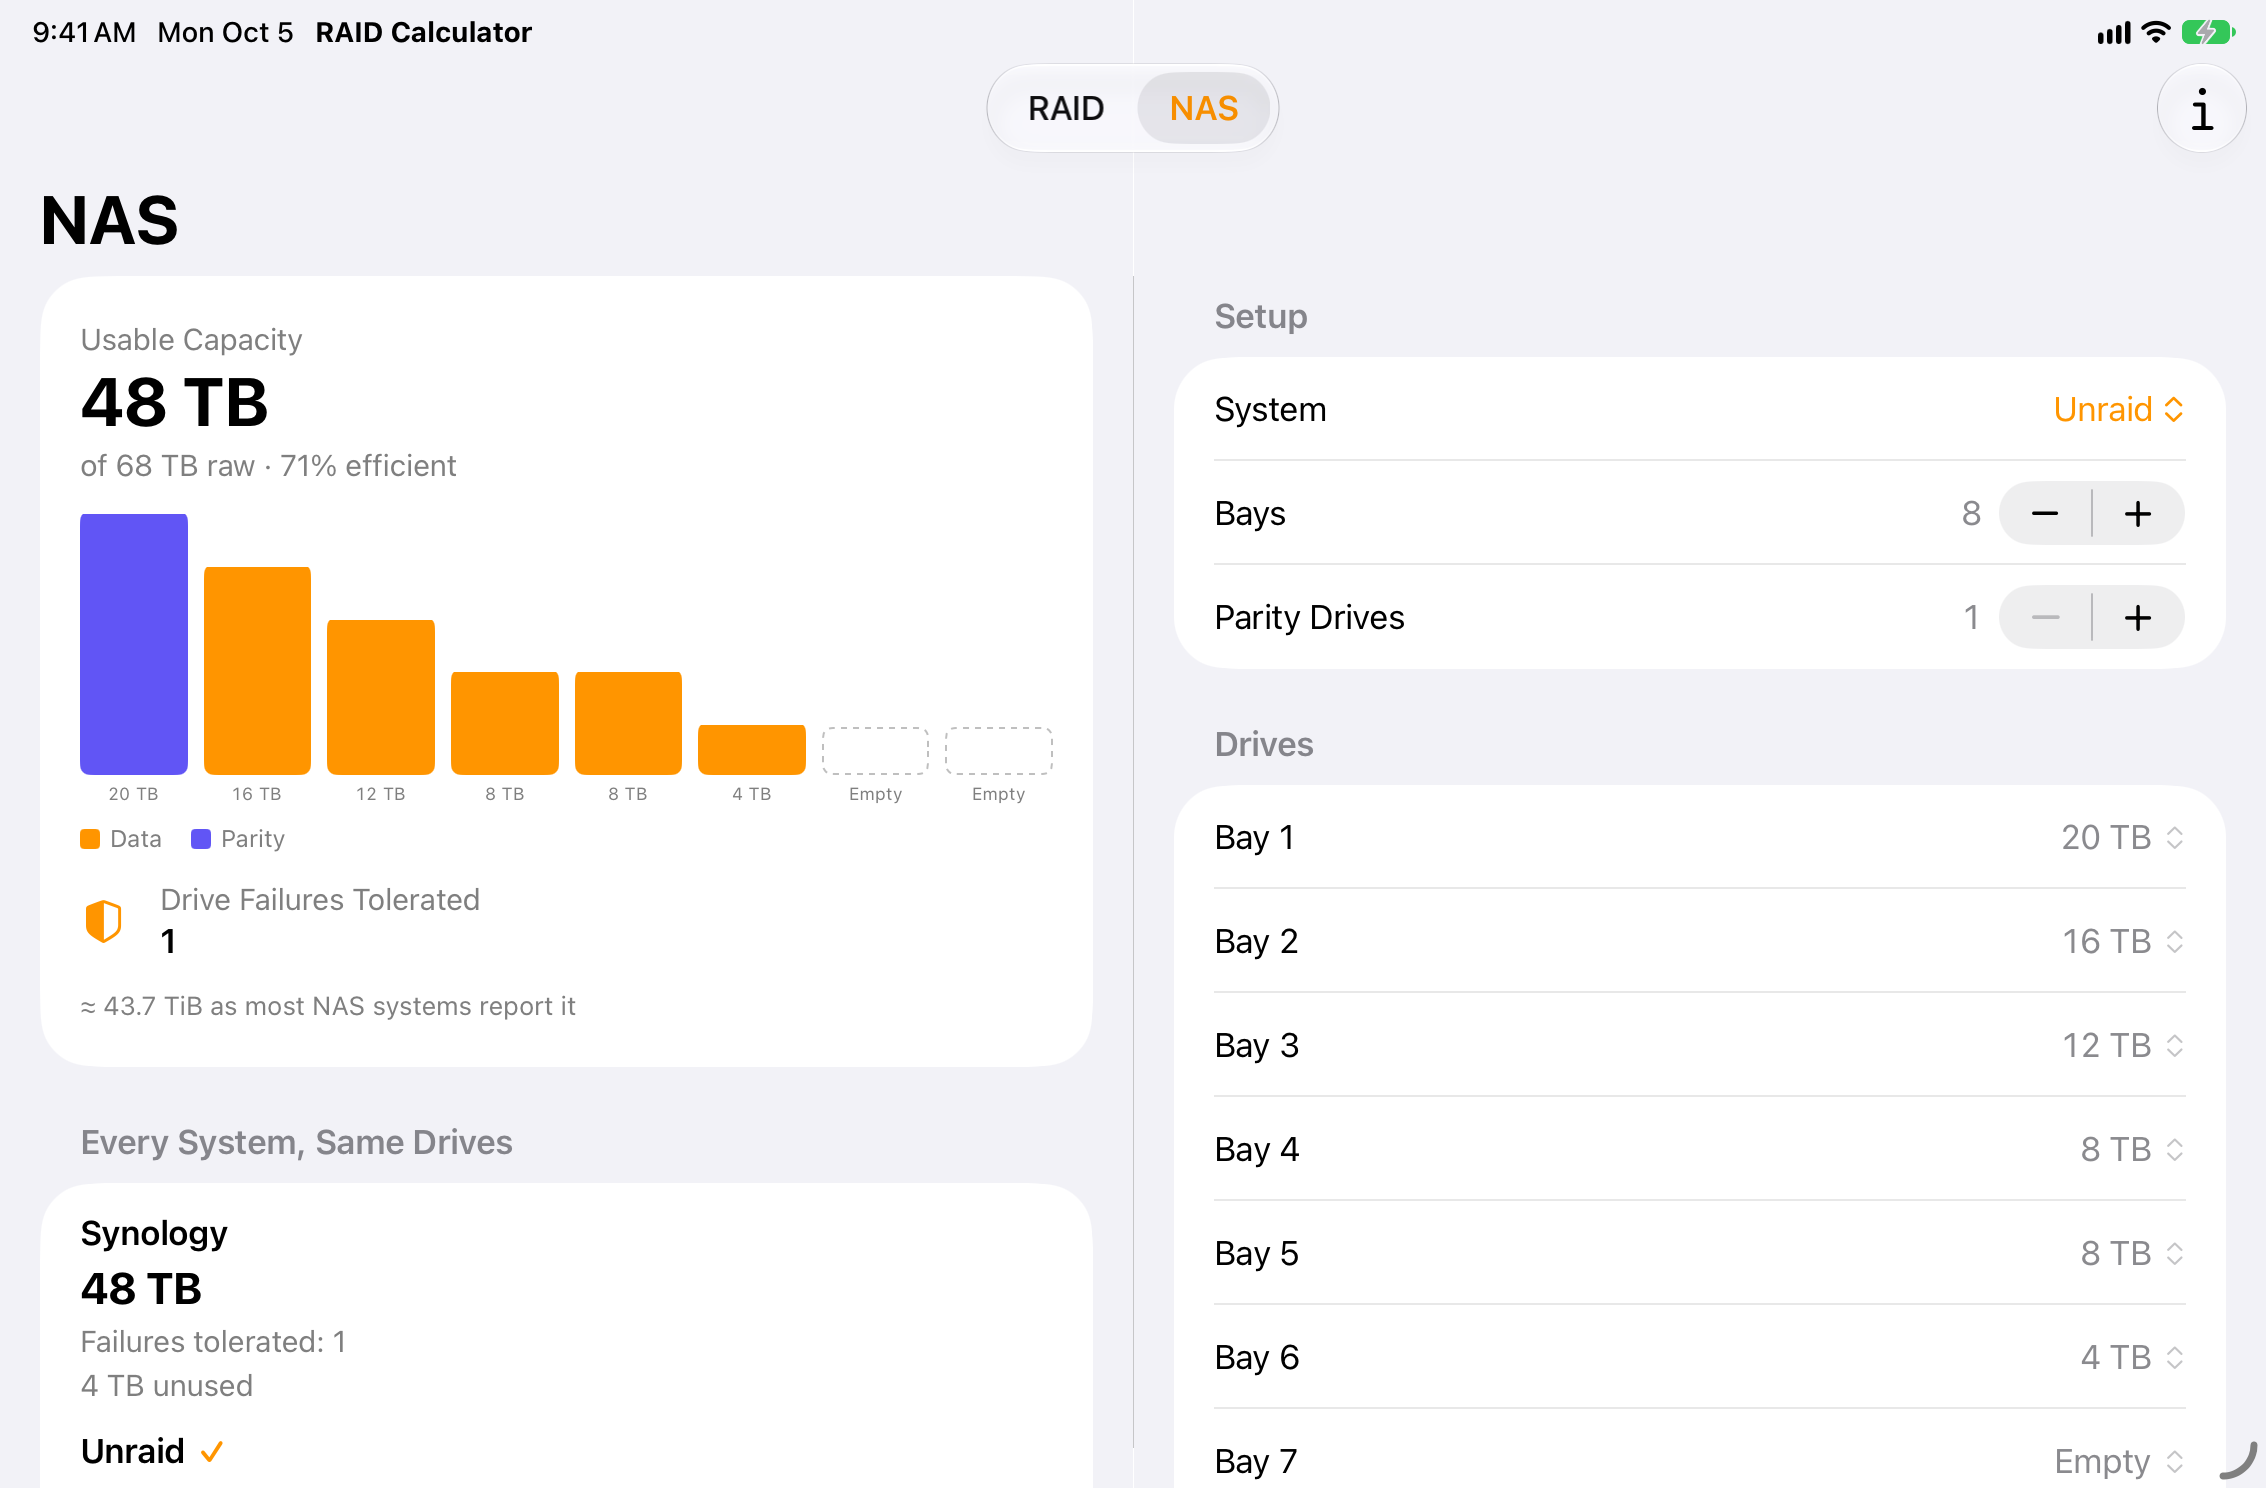
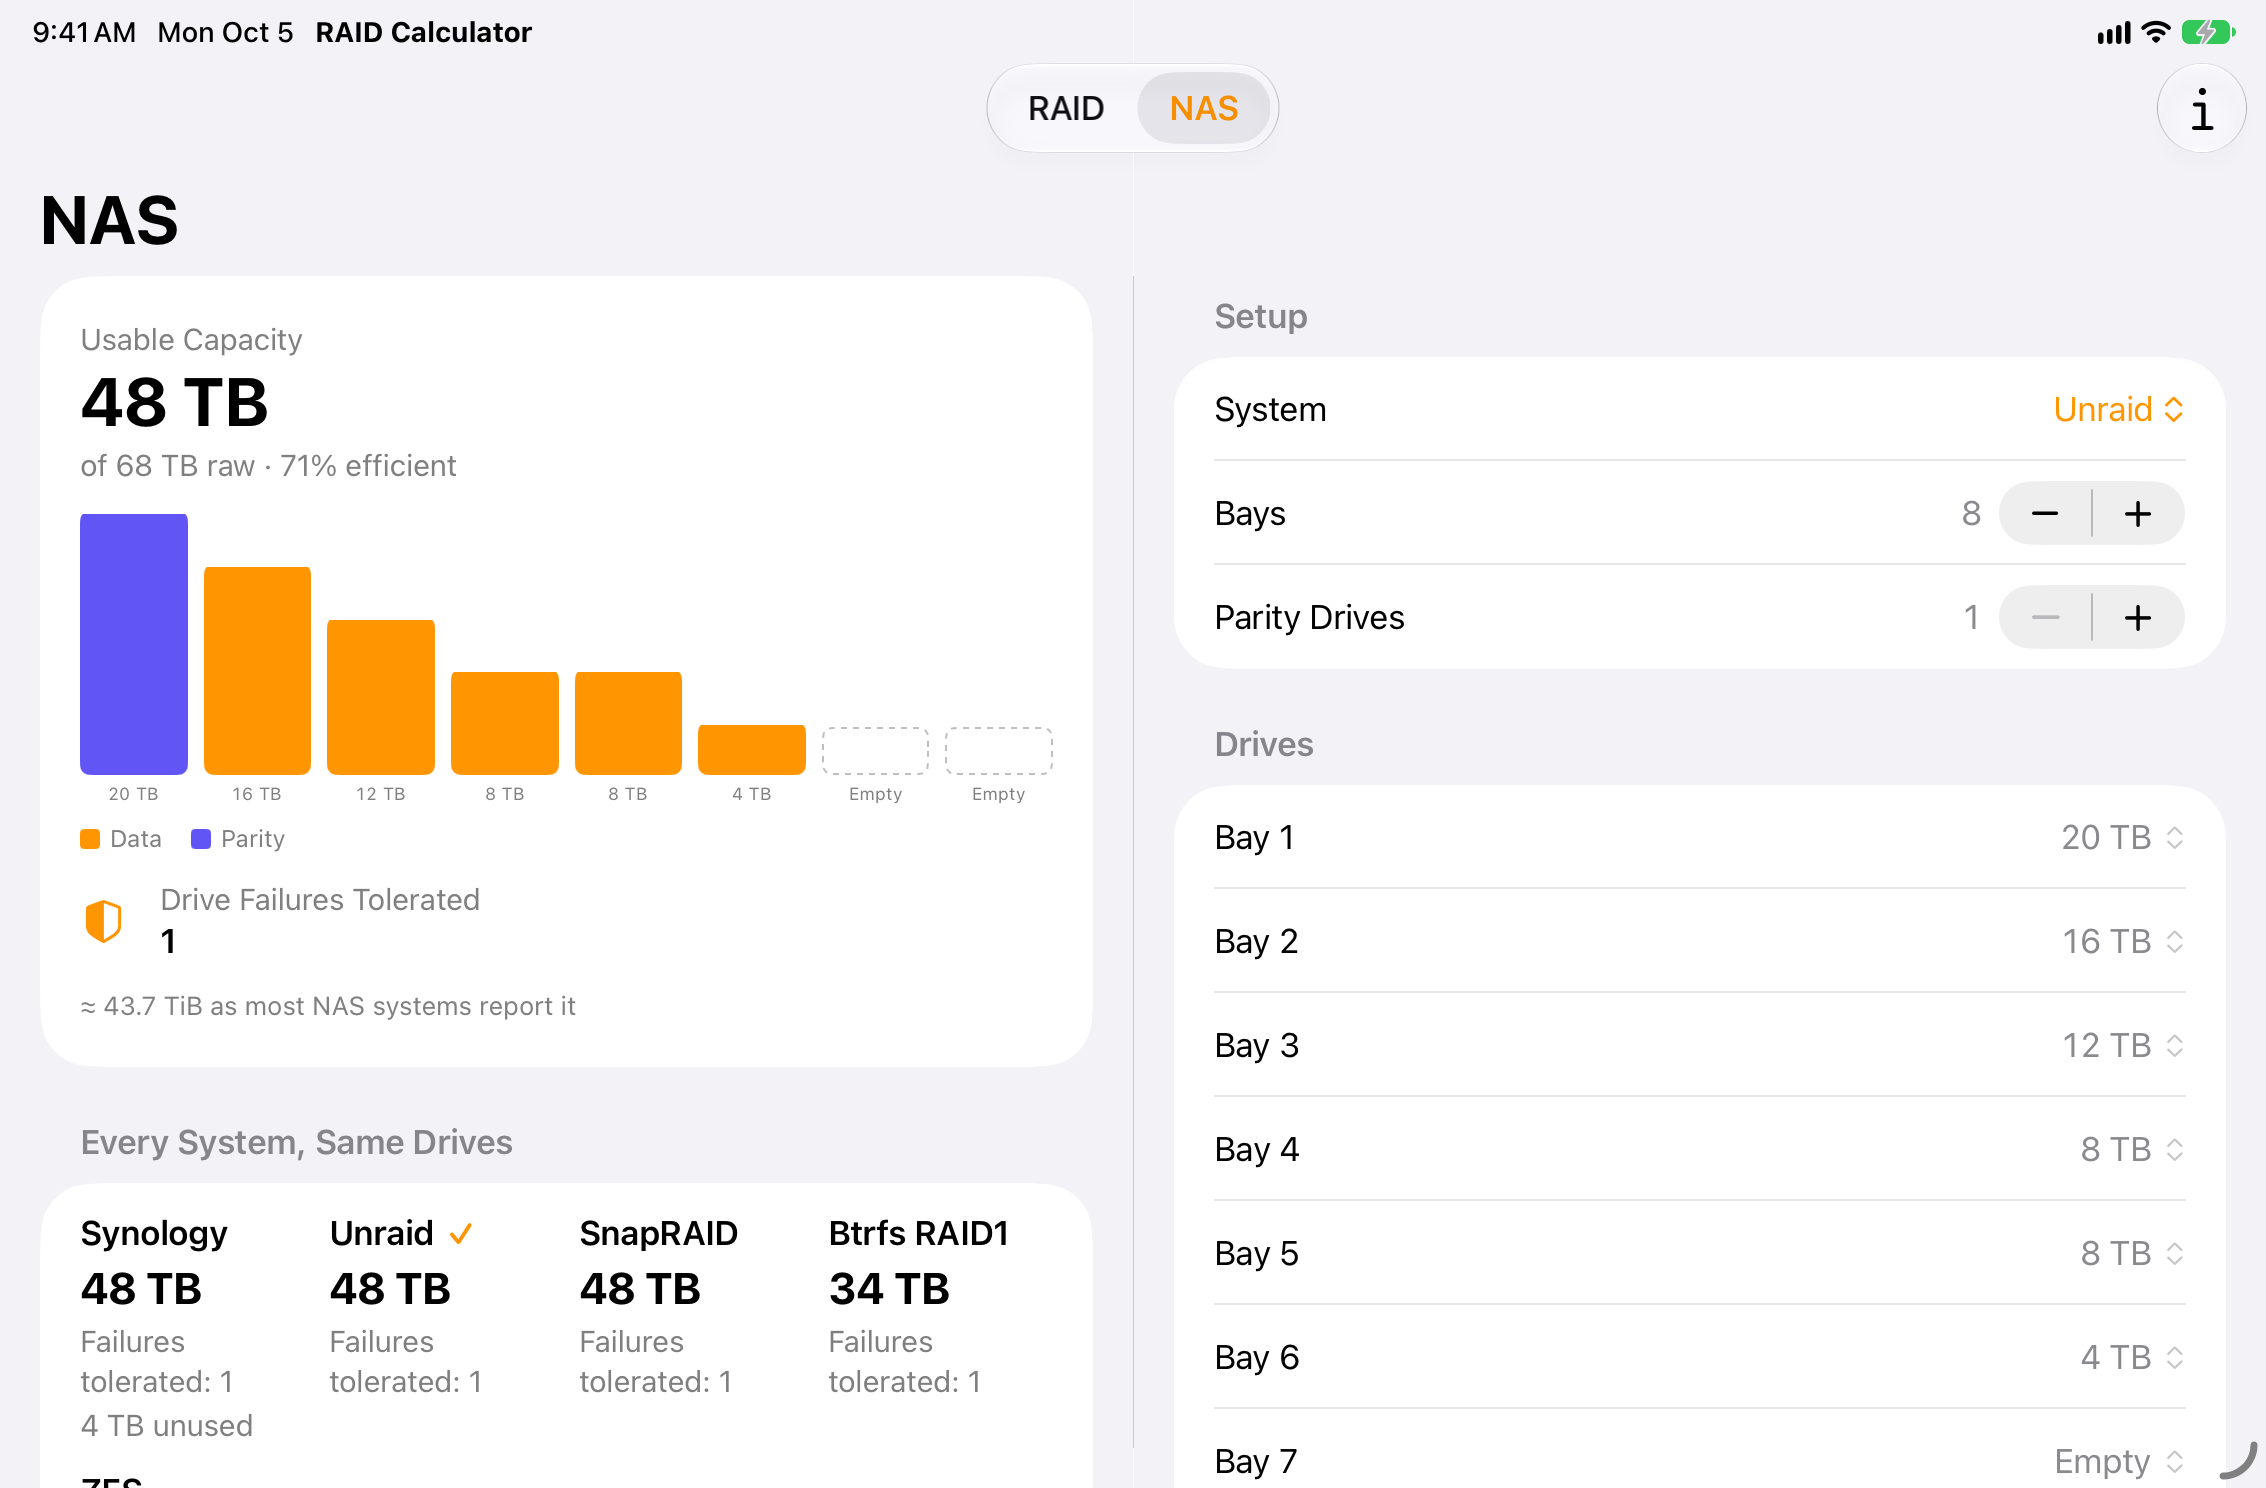
Test the comparison grid and bay frames, refresh the iPad sweep
- testIPadComparesSystemsInColumns now asserts Unraid sits beside
  Synology, and a portrait variant covers the 13-inch iPad's narrower
  results column (skips where portrait is one column).
- testBayDiagramColumnsKeepTheirOwnFrames guards each bay's VoiceOver
  frame against overlapping the next.
- testIPadSwitchToSynologyFromThirtyBays scrolls the lazy drive list,
  so it also passes on the iPad mini, where bay 12 is below the fold.
- The UI tests restore portrait in tearDown.
- Unit tests: non-finite widths, the drive-strip row rule, and a
  non-vacuous invalid-sort check.
- Re-captured the iPad two-column NAS shots, light and dark.

Changed region(s): [[0.0309, 0.8038, 0.1853, 1.0], [0.2471, 0.8038, 0.3398, 0.9583], [0.3707, 0.8038, 0.4325, 0.9583]]

diff --git a/RaidCalculator2UITests/RaidCalculator2UITests.swift b/RaidCalculator2UITests/RaidCalculator2UITests.swift
@@ -13,6 +13,11 @@ final class RaidCalculator2UITests: XCTestCase {
         continueAfterFailure = false
     }
 
+    /// The iPad tests turn the device; put it back so the next test starts upright.
+    override func tearDownWithError() throws {
+        MainActor.assumeIsolated { XCUIDevice.shared.orientation = .portrait }
+    }
+
     /// Launches with a known configuration. Launch arguments override the
     /// persisted UserDefaults, so each test starts from RAID 5, 4 × 4 TB.
     @MainActor
@@ -386,6 +391,24 @@ final class RaidCalculator2UITests: XCTestCase {
         return summary.label.components(separatedBy: ", ").dropFirst().first ?? summary.label
     }
 
+    /// Each bay's VoiceOver frame is its own column, so exploring by touch
+    /// lands on the bay under the finger. Bay 1 of [16, 8, 8, 4] carries
+    /// hatched unused space, whose lines used to reach far past the column
+    /// and stretch its frame across bays 2 and 3.
+    @MainActor
+    func testBayDiagramColumnsKeepTheirOwnFrames() throws {
+        let app = launchNAS(bays: "[16,8,8,4]")
+        XCTAssertTrue(app.staticTexts.matching(identifier: "nasUsableCapacity").firstMatch.waitForExistence(timeout: 5))
+        func column(_ bay: Int) -> XCUIElement {
+            app.descendants(matching: .any).matching(NSPredicate(format: "label BEGINSWITH %@", "Bay \(bay), ")).firstMatch
+        }
+        for bay in 1...3 {
+            let this = column(bay).frame, next = column(bay + 1).frame
+            XCTAssertLessThanOrEqual(this.maxX, next.minX + 1, "bay \(bay) \(this) overlaps bay \(bay + 1) \(next)")
+            XCTAssertLessThan(this.width, 100, "bay \(bay) frame \(this)")
+        }
+    }
+
     /// The same drives under every system. [4, 4, 8, 8] is SHR 16 TB,
     /// Unraid 16 TB (parity 8), RAID-Z1 12 TB and Btrfs RAID1 12 TB.
     @MainActor
@@ -528,10 +551,32 @@ final class RaidCalculator2UITests: XCTestCase {
     func testIPadComparesSystemsInColumns() throws {
         try XCTSkipUnless(UIDevice.current.userInterfaceIdiom == .pad, "iPad layout")
         XCUIDevice.shared.orientation = .landscapeLeft
+        try assertComparesSystemsInColumns()
+    }
+
+    /// FR-13 in portrait on a large iPad, where the results column is
+    /// narrower than five systems: they wrap into rows of columns rather
+    /// than stacking into a list. Skips where portrait is a single column.
+    @MainActor
+    func testIPadComparesSystemsInColumnsInPortrait() throws {
+        try XCTSkipUnless(UIDevice.current.userInterfaceIdiom == .pad, "iPad layout")
+        XCUIDevice.shared.orientation = .portrait
+        try assertComparesSystemsInColumns()
+    }
+
+    @MainActor
+    private func assertComparesSystemsInColumns() throws {
         let app = launchNAS()
+        XCTAssertTrue(app.staticTexts.matching(identifier: "nasUsableCapacity").firstMatch.waitForExistence(timeout: 5))
+        try XCTSkipIf(app.windows.firstMatch.frame.width < 800, "a single column at this width")
         let unraid = app.buttons["compare_unraid"]
         XCTAssertTrue(unraid.waitForExistence(timeout: 5))
         XCTAssertFalse(app.buttons["compareSystems"].exists)
+        // Synology and Unraid tie on 16 TB and lead the sort, so they share
+        // the first row: side by side, not one under the other.
+        let synology = app.buttons["compare_synology"]
+        XCTAssertEqual(unraid.frame.minY, synology.frame.minY, accuracy: 2, "Unraid should sit beside Synology")
+        XCTAssertGreaterThan(unraid.frame.minX, synology.frame.maxX)
         app.buttons["compare_zfs"].tap()
         XCTAssertEqual(nasCapacity(app), tb(12))
     }
@@ -548,9 +593,20 @@ final class RaidCalculator2UITests: XCTestCase {
         let usable = app.staticTexts.matching(identifier: "nasUsableCapacity").firstMatch
         XCTAssertTrue(usable.waitForExistence(timeout: 5))
 
+        // The drive list is lazy: on a shorter iPad (the mini in landscape)
+        // bay 12 isn't built until the inputs column scrolls to it.
+        func dragInputs(up: Bool) {
+            let from = app.coordinate(withNormalizedOffset: CGVector(dx: 0.75, dy: up ? 0.75 : 0.3))
+            from.press(forDuration: 0.05, thenDragTo: app.coordinate(withNormalizedOffset: CGVector(dx: 0.75, dy: up ? 0.3 : 0.75)))
+        }
+        func show(_ element: XCUIElement, up: Bool) {
+            for _ in 0..<6 where !(element.exists && element.isHittable) { dragInputs(up: up) }
+        }
+
         func assertTwelveBays(_ route: String) {
             XCTAssertTrue(usable.waitForExistence(timeout: 2), "still running after switching via \(route)")
             XCTAssertEqual(app.state, .runningForeground, route)
+            show(app.buttons["bay12"], up: true)
             XCTAssertTrue(app.buttons["bay12"].waitForExistence(timeout: 2), route)
             XCTAssertFalse(app.buttons["bay13"].exists, route)
         }
@@ -559,7 +615,9 @@ final class RaidCalculator2UITests: XCTestCase {
         assertTwelveBays("comparison columns")
 
         app.buttons["compare_unraid"].tap()
+        show(app.buttons["bay13"], up: true)
         XCTAssertTrue(app.buttons["bay13"].waitForExistence(timeout: 2), "Unraid keeps all 30 bays")
+        show(app.buttons["nasSystem"], up: false)
         app.buttons["nasSystem"].tap()
         app.buttons["Synology"].tap()
         assertTwelveBays("system picker")

diff --git a/RaidCalculator2Tests/AdaptiveLayoutTests.swift b/RaidCalculator2Tests/AdaptiveLayoutTests.swift
@@ -37,6 +37,22 @@ struct AdaptiveLayoutTests {
         #expect(AdaptiveLayout.bayRows(count: 30, width: 0, minColumn: 24, spacing: 4, wrap: true) == [0..<30])
     }
 
+    // A width that isn't a number (an unbounded proposal) is one row, not a trap.
+    @Test func nonFiniteWidthIsOneRow() {
+        #expect(AdaptiveLayout.bayRows(count: 30, width: .infinity, minColumn: 24, spacing: 4, wrap: true) == [0..<30])
+        #expect(AdaptiveLayout.bayRows(count: 30, width: .nan, minColumn: 24, spacing: 4, wrap: true) == [0..<30])
+    }
+
+    // A row per group only while the rows stay few; more groups keep one strip.
+    @Test func driveGroupsBecomeRowsOnlyWhenFew() {
+        #expect(!AdaptiveLayout.groupsAsRows(isRegularWidth: true, groupCount: 1))
+        #expect(AdaptiveLayout.groupsAsRows(isRegularWidth: true, groupCount: 2))
+        #expect(AdaptiveLayout.groupsAsRows(isRegularWidth: true, groupCount: 6))
+        #expect(!AdaptiveLayout.groupsAsRows(isRegularWidth: true, groupCount: 7))
+        #expect(!AdaptiveLayout.groupsAsRows(isRegularWidth: true, groupCount: 12))
+        #expect(!AdaptiveLayout.groupsAsRows(isRegularWidth: false, groupCount: 3))
+    }
+
     @Test func noBaysNoRows() {
         #expect(AdaptiveLayout.bayRows(count: 0, width: 480, minColumn: 24, spacing: 4, wrap: true).isEmpty)
     }

diff --git a/RaidCalculator2Tests/NASCalculatorTests.swift b/RaidCalculator2Tests/NASCalculatorTests.swift
@@ -143,8 +143,10 @@ struct NASCalculatorTests {
             requestedBayCount: 2
         )
         let firstInvalid = try #require(rows.firstIndex { !$0.isValid })
+        #expect(firstInvalid > 0)
         #expect(rows[firstInvalid...].allSatisfy { !$0.isValid })
         #expect(rows[..<firstInvalid].allSatisfy { $0.isValid })
         #expect(rows.first { $0.system == .snapraid }?.isValid == false)
+        #expect(rows.first { $0.system == .snapraid }?.warningMessage != nil)
     }
 }
